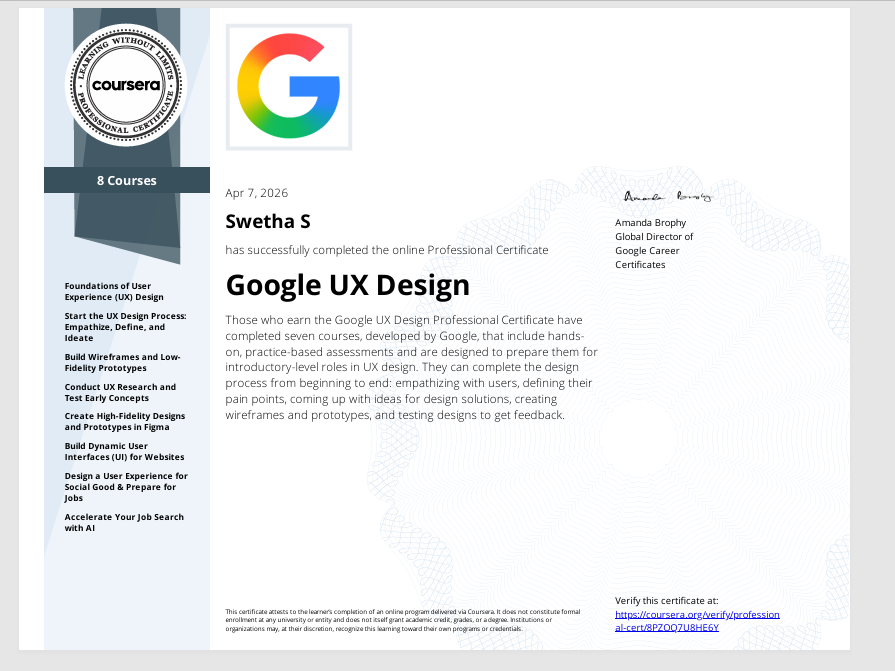
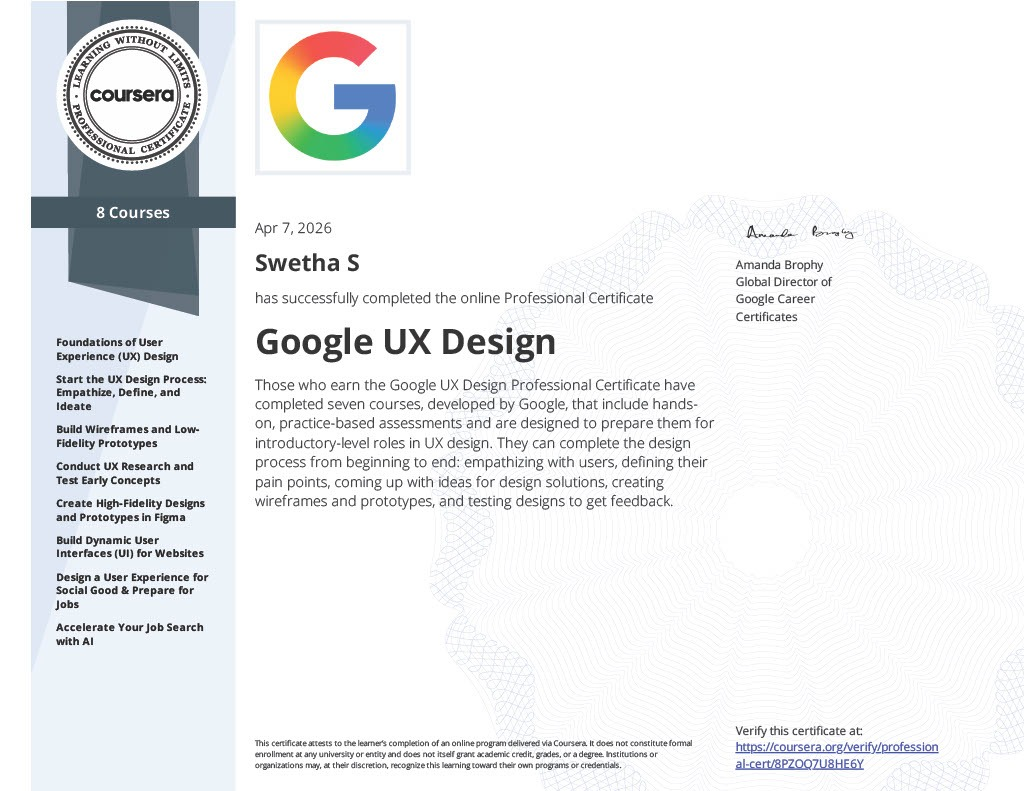
feat: replace certificate with newly cropped high-res image

diff --git a/index.html b/index.html
@@ -13,7 +13,7 @@
         href="https://fonts.googleapis.com/css2?family=Outfit:wght@800;900&family=Plus+Jakarta+Sans:ital,wght@0,300..900;1,300..900&family=Space+Grotesk:wght@400;500;600;700;800&family=Caveat:wght@600;700&display=swap"
         rel="stylesheet">
 
-    <link rel="stylesheet" href="css/styles.css?v=20260901_16">
+    <link rel="stylesheet" href="css/styles.css?v=20260901_17">
 </head>
 
 <body>
@@ -127,7 +127,7 @@
                     </ul>
 
                     <div class="cert-image-card">
-                        <img src="assets/images/google_ux_certificate.png" alt="Google UX Design Professional Certificate - Swetha S" class="cert-display-img">
+                        <img src="assets/images/google_ux_certificate.png?v=20260901_17" alt="Google UX Design Professional Certificate - Swetha S" class="cert-display-img">
                     </div>
                 </div>
             </div>
